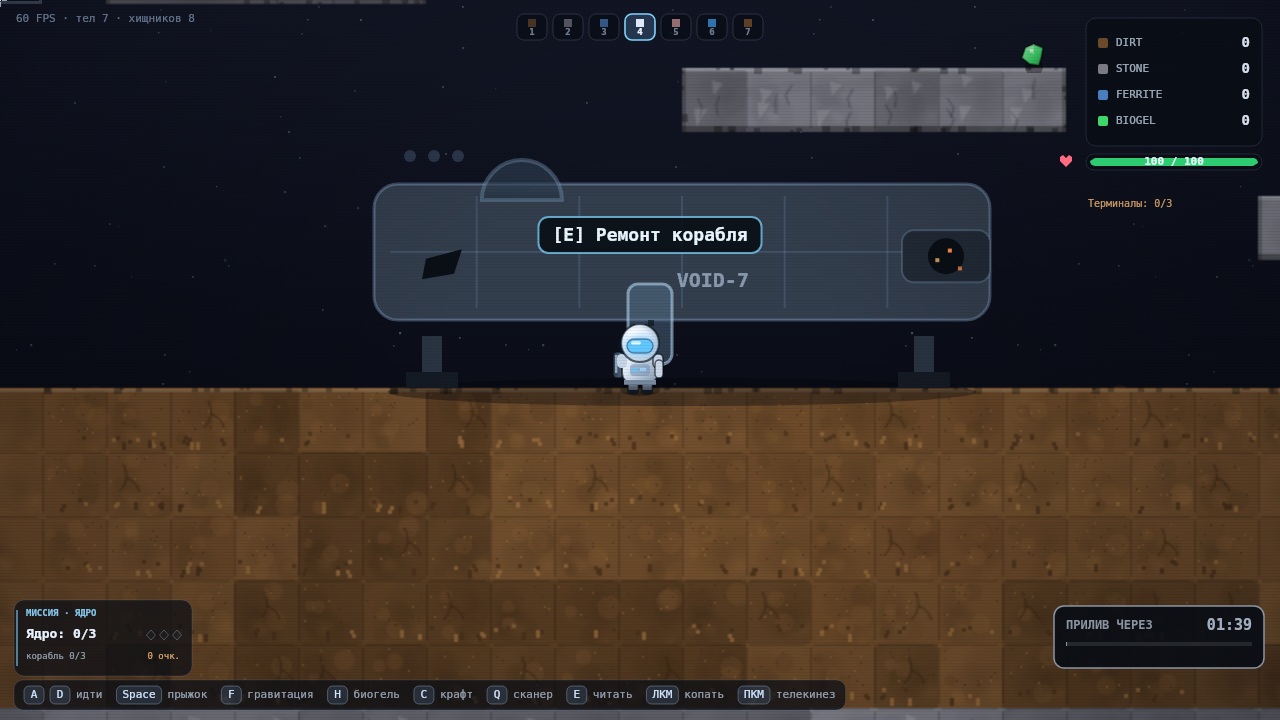
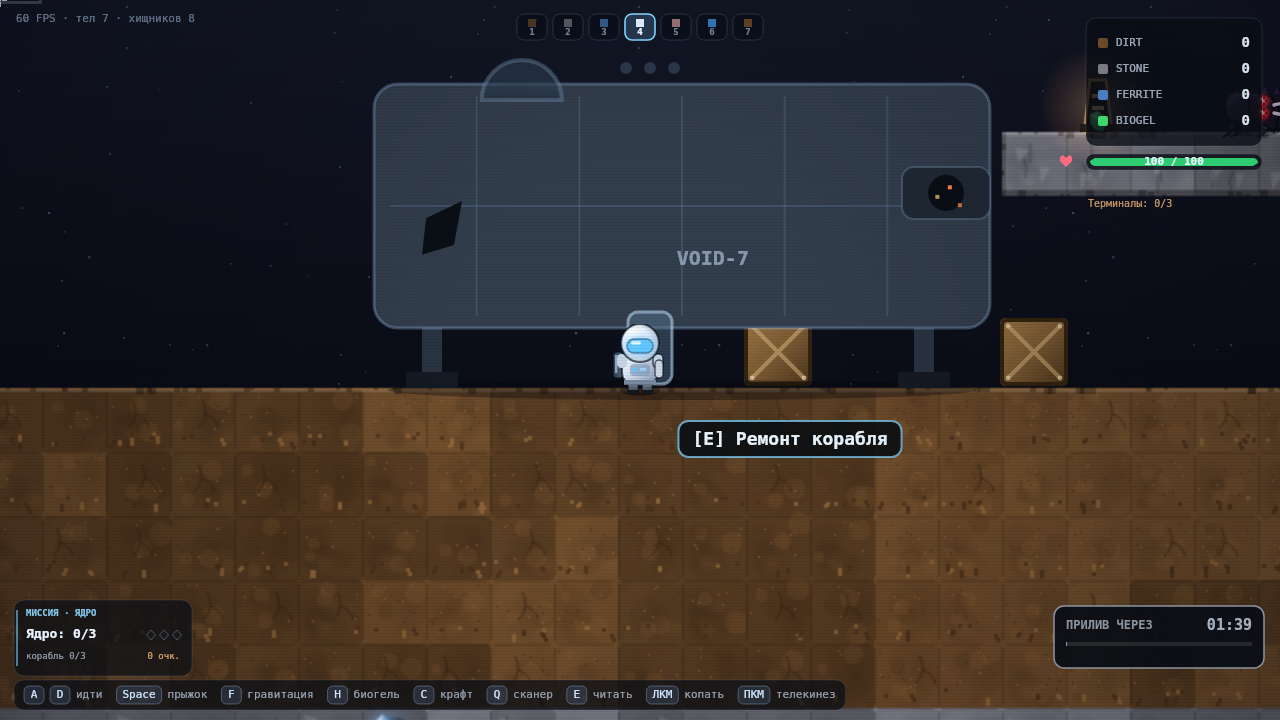
M8.3: слияние мира и сюжета
- SHIP: tx0 16, tx1 25, doorTile 20 — корабль стоит на спавне игрока,
  люк в четырёх тайлах правее: меню ремонта открывается сразу по E.
  Корпус поднят на стойках (30 px просвета), корпус не пересекает игрока.
- Резонит — ресурс игры: убран ручной counts[8] = 0, добыча через
  inventory.add(8, n). Narrative.ensureResonite() остался страховкой
  для сборки без RESONITE в CFG.resources и там возвращает false.
- Заглушки game.shipNear / game.drawShip не подставляются, ссылок на
  game.ship в сюжете нет — только this.ship.
- Подсказка корабля: у низа трапа, с прижатием к экрану, чтобы не
  уезжала за край и не накрывалась HUD на телефоне.
- state()/load() по-прежнему хранят и подхватывают стадию ремонта.

Тесты: verify-narrative 76/76 (+14), verify 344/344.
Перф: p50 6.31 / p95 7.32 / p99 10.01 мс. Скриншоты пересняты.
M82.md, README, review.html обновлены под M8.3.

diff --git a/narrative.js b/narrative.js
@@ -27,12 +27,15 @@
   var RESONITE = 8;
 
   // Корабль: 10 тайлов корпуса на поверхности, у самого старта игрока
+  // M8.3: корабль стоит там, где спавнится игрок (CFG.spawn.playerTileX = 16).
+  // Люк на 20-м тайле — в четырёх тайлах правее точки появления: игрок выходит
+  // из корабля, а не оказывается внутри корпуса
   var SHIP = {
-    tx0: 38,            // левый борт
-    tx1: 47,            // правый борт
+    tx0: 16,            // левый борт
+    tx1: 25,            // правый борт
     floorRow: 17,       // рядов ниже — твёрдый пол (surfaceRow)
     h: 4,               // высота корпуса в тайлах
-    doorTile: 42,       // где «люк»: отсюда считается радиус взаимодействия
+    doorTile: 20,       // где «люк»: отсюда считается радиус взаимодействия
     radius: 3.6         // тайлов до люка, чтобы открыть меню ремонта
   };
 
@@ -461,12 +464,9 @@
       this.prevLeft = false;
       this.toast = '';
 
-      // Резонит — новый ключ инвентаря: без нуля Inventory.add(8, n) даёт NaN
-      if (game && game.inventory && game.inventory.counts[RESONITE] === undefined) {
-        game.inventory.counts[RESONITE] = 0;
-        game.inventory.pulse[RESONITE] = 0;
-      }
-
+      // M8.3: резонит объявлен в CFG.resources игры, поэтому Inventory сам
+      // заводит для него нулевой счётчик, рисует его в HUD и кладёт в сейв.
+      // Ручной `counts[RESONITE] = 0` больше не нужен
       this.load();
       this.settle(game);
     }
@@ -533,9 +533,10 @@
       var g = this.game;
       if (!n || n.taken) return false;
       n.taken = true;
+      Narrative.ensureResonite(g);
       g.inventory.add(RESONITE, n.amount);
       // Своя вспышка: Particles.pickup красит искры по RES[type], а резонита
-      // в таблице ресурсов игры нет — id 8 живёт только в сюжете
+      // может не быть в таблице ресурсов игры — id 8 приходит из сюжета
       for (var i = 0; i < 10; i++) {
         var a = (i / 10) * Math.PI * 2;
         g.particles.add(n.x, n.y, Math.cos(a) * 90, Math.sin(a) * 90, 2.4,
@@ -600,6 +601,7 @@
       // Резонит живёт в инвентаре игры, но переживает F5 только здесь:
       // штатный сейв сохраняет все ключи, а восстанавливает лишь ресурсы CFG
       if (typeof d.resonite === 'number' && this.game && this.game.inventory) {
+        Narrative.ensureResonite(this.game);
         this.game.inventory.counts[RESONITE] = d.resonite;
       }
       return true;
@@ -628,7 +630,11 @@
       this.reading = null;
       this.ending = false;
       this.near = null;
-      if (game && game.inventory) game.inventory.counts[RESONITE] = 0;
+      if (game && game.inventory) {
+        // Обнуляем ровно те ключи, что уже лежат в инвентаре: и штатные ресурсы
+        // игры, и резонит, если игра его знает
+        for (var id in game.inventory.counts) game.inventory.counts[id] = 0;
+      }
       var ls = Narrative.storage();
       try { if (ls) ls.removeItem(Narrative.KEY); } catch (e) { /* пусто */ }
     }
@@ -828,28 +834,34 @@
       var s = this.ship;
       var t = game.time || 0;
       var x0 = s.tx0 * 32, x1 = (s.tx1 + 1) * 32;
-      var bottom = s.bottomY, top = s.topY;
+      var ground = s.bottomY;            // пол: здесь стоят стойки
       var stage = s.repairStage;
+      // M8.3: корабль переехал на спавн, и под брюхом теперь ходят игрок и ящики.
+      // Поэтому корпус поднят на стойках: под ним просвет в 30 px — видно и ноги
+      // игрока, и то, что он стоит ПОД кораблём, а не за ним
+      var legH = 30;
+      var bottom = ground - legH;         // низ корпуса
+      var top = bottom - s.h * 32;
 
-      // --- тень под кораблём: он не «стоит на картинке», а лежит на грунте
+      // --- тень на грунте: корабль стоит, а не висит в воздухе
       ctx.globalAlpha = 0.35;
       ctx.fillStyle = '#04070c';
       ctx.beginPath();
-      ctx.ellipse ? ctx.ellipse((x0 + x1) / 2, bottom + 2, (x1 - x0) * 0.46, 7, 0, 0, Math.PI * 2)
-                  : ctx.arc((x0 + x1) / 2, bottom + 2, (x1 - x0) * 0.4, 0, Math.PI * 2);
+      ctx.ellipse ? ctx.ellipse((x0 + x1) / 2, ground + 1, (x1 - x0) * 0.46, 5, 0, 0, Math.PI * 2)
+                  : ctx.arc((x0 + x1) / 2, ground + 1, (x1 - x0) * 0.4, 0, Math.PI * 2);
       ctx.fill();
       ctx.globalAlpha = 1;
 
-      // --- опоры: две стойки, левая и правая
+      // --- опоры: две стойки от корпуса до грунта, с пятками
       ctx.fillStyle = '#2a3442';
-      ctx.fillRect(x0 + 30, bottom - 26, 10, 26);
-      ctx.fillRect(x1 - 44, bottom - 26, 10, 26);
+      ctx.fillRect(x0 + 30, bottom - 2, 10, legH + 2);
+      ctx.fillRect(x1 - 44, bottom - 2, 10, legH + 2);
       ctx.fillStyle = '#151b24';
-      ctx.fillRect(x0 + 22, bottom - 8, 26, 8);
-      ctx.fillRect(x1 - 52, bottom - 8, 26, 8);
+      ctx.fillRect(x0 + 22, ground - 8, 26, 8);
+      ctx.fillRect(x1 - 52, ground - 8, 26, 8);
 
       // --- корпус: скруглённый силуэт с наклонным носом
-      var bx = x0 + 6, bw = (x1 - x0) - 12, by = top + 26, bh = (bottom - 34) - (top + 26);
+      var bx = x0 + 6, bw = (x1 - x0) - 12, by = top + 6, bh = bottom - top - 6;
       ctx.fillStyle = stage >= 2 ? '#3d4a5c' : '#333e4d';
       rr(ctx, bx, by, bw, bh, 12);
       ctx.fill();
@@ -959,26 +971,29 @@
       }
 
       // --- люк: подсвечен, когда есть чем заняться
-      var doorX = this.ship.doorX - 11, doorY = bottom - 52;
+      // люк: трап от грунта до брюха корабля, чтобы было видно, куда идти
+      var doorX = this.ship.doorX - 11, doorY = bottom - 8;
       var doorGlow = this.near && this.near.kind === 'ship' ? 0.55 + 0.45 * Math.sin(t * 6) : 0.3;
       ctx.globalAlpha = doorGlow;
       ctx.fillStyle = stage >= 1 ? '#7fd4ff' : '#5b7a95';
-      rr(ctx, doorX, doorY, 22, 40, 5);
+      rr(ctx, doorX, doorY, 22, legH + 6, 5);
       ctx.fill();
       ctx.globalAlpha = 1;
       ctx.strokeStyle = 'rgba(190,225,255,0.55)';
       ctx.lineWidth = 1.5;
-      rr(ctx, doorX, doorY, 22, 40, 5);
+      rr(ctx, doorX, doorY, 22, legH + 6, 5);
       ctx.stroke();
       ctx.fillStyle = 'rgba(10,18,28,0.65)';
-      ctx.fillRect(doorX + 10, doorY + 18, 3, 3);
+      ctx.fillRect(doorX + 10, doorY + 12, 3, 3);
 
-      // --- индикатор стадий над кораблём: три точки
+      // --- индикатор стадий над кораблём: три точки над люком.
+      // Корабль стоит у спавна, рядом уступы — вести счёт от левого борта
+      // нельзя: точки терялись на фоне породы
       for (var s2 = 0; s2 < 3; s2++) {
         var on = stage > s2;
         ctx.fillStyle = on ? '#7fd4ff' : 'rgba(120,150,190,0.28)';
         ctx.beginPath();
-        ctx.arc(x0 + 24 + s2 * 12, top + 12, 3, 0, Math.PI * 2);
+        ctx.arc(this.ship.doorX - 12 + s2 * 12, top - 2, 3, 0, Math.PI * 2);
         ctx.fill();
       }
     }
@@ -1132,8 +1147,11 @@
       // а не горячую клавишу — на экране за это отвечает кнопка «читать»
       var e = game.isTouch ? '' : '[E] ';
       if (n.kind === 'ship') {
-        cx = this.ship.doorX;
-        cy = this.ship.bottomY - 78;
+        // Подсказка стоит на грунте у трапа: над корпусом на телефоне её
+        // накрывает HUD, а в середине корабля — спрайт самого игрока
+        // (он рисуется позже и перекрывает надпись)
+        cx = this.ship.doorX + 70;
+        cy = this.ship.bottomY + 24;
         label = this.ship.finished
           ? (this.ship.canActivateCore(game) ? e + 'Активировать ядро' : e + 'Корабль')
           : e + 'Ремонт корабля';
@@ -1158,6 +1176,25 @@
       var bob = Math.sin(t * 3) * 1.5;
       ctx.font = 'bold 9px ' + (Narrative.font || 'monospace');
       var w = ctx.measureText(label).width + 14;
+
+      // Плашка не должна вылезать за экран: переводим мир в экранные пиксели
+      // и обратно. Корабль стоит у спавна, у самого левого края карты —
+      // без этого подсказка обрезалась о край
+      if (game.camera && game.vw) {
+        var z = (typeof CFG !== 'undefined' && CFG.camera) ? CFG.camera.zoom : 2;
+        var camX = game.camera.x + (game.camera.ox || 0);
+        var camY = game.camera.y + (game.camera.oy || 0);
+        var sx = (cx - camX) * z, sy = (cy - camY) * z;
+        var margin = 8;
+        var minX = w / 2 + margin, maxX = game.vw - w / 2 - margin;
+        if (sx < minX) sx = minX;
+        if (sx > maxX) sx = Math.max(minX, maxX);
+        var minY = 20, maxY = game.vh - 20;
+        if (sy < minY) sy = minY;
+        if (sy > maxY) sy = maxY;
+        cx = camX + sx / z;
+        cy = camY + sy / z;
+      }
       ctx.fillStyle = 'rgba(6,12,18,0.85)';
       rr(ctx, cx - w / 2, cy - 9 + bob, w, 18, 5);
       ctx.fill();
@@ -1555,6 +1592,43 @@
   // localStorage бывает и на window, и на глобальном объекте (так делает
   // headless-песочница в tools/verify-narrative.mjs). Берём то, что найдётся,
   // и не падаем, если хранилища нет вовсе — приватный режим
+  // Счётчик резонита в инвентаре. Когда игра объявляет RESONITE в CFG.resources
+  // (M8.3, правки Агента 1), Inventory заводит ключ сам, и эта функция ничего
+  // не делает. Она нужна только сборкам, где резонита в CFG.resources ещё нет:
+  // без нуля Inventory.add(8, n) даёт NaN. Одна функция — одно место, чтобы
+  // потом удалить её целиком
+  Narrative.ensureResonite = function (game) {
+    var inv = game && game.inventory;
+    if (!inv || !inv.counts) return false;
+    if (Narrative.isResource(game, RESONITE)) return false;
+    if (typeof inv.counts[RESONITE] === 'number') return false;
+    inv.counts[RESONITE] = 0;
+    if (inv.pulse) inv.pulse[RESONITE] = 0;
+    return true;
+  };
+
+  // Есть ли такой ресурс в таблице игры. Резонит появился в CFG.resources
+  // в M8.3; если его там нет (старая сборка), сюжет работает как раньше
+  Narrative.isResource = function (game, id) {
+    var list = null;
+    try {
+      // CFG объявлен как const в скрипте игры: в браузере он виден следующему
+      // скрипту той же страницы, в vm-песочнице — нет. Поэтому сначала смотрим
+      // во всём мире, потом в этой области видимости
+      if (global && global.CFG && global.CFG.resources) list = global.CFG.resources;
+    } catch (e) { list = null; }
+    try { if (!list && typeof CFG !== 'undefined' && CFG.resources) list = CFG.resources; } catch (e) { /* нет CFG */ }
+    if (!list) {
+      var res = game && game.inventory && game.inventory.resources;
+      list = res || null;
+    }
+    if (!list) return false;
+    for (var i = 0; i < list.length; i++) {
+      if (list[i] && list[i].id === id) return true;
+    }
+    return false;
+  };
+
   Narrative.storage = function () {
     try {
       if (global && global.localStorage) return global.localStorage;

diff --git a/M82.md b/M82.md
@@ -1,4 +1,4 @@
-# Milestone 8.2 — «Сюжет и Ремонт»
+# Milestone 8.2 — «Сюжет и Ремонт» · M8.3 «Слияние Мира и Сюжета»
 
 Новый файл **`narrative.js`**. Игра `gravity-void.html` не изменилась ни на строку —
 сюжет цепляется к ней снаружи, через публичные поля экземпляра `game` и пять обёрток
@@ -6,7 +6,9 @@
 
 - Как подключить: одна строка `<script src="narrative.js"></script>` после скрипта игры —
   см. §1.
-- Тесты: `node tools/verify-narrative.mjs` — **62/62**.
+- M8.3: корабль переехал на спавн игрока (`tx0 16`, `tx1 25`, люк `20`), резонит стал
+  штатным ресурсом, ссылок на `game.ship` больше нет.
+- Тесты: `node tools/verify-narrative.mjs` — **76/76**.
 - Старая игра цела: `node tools/verify.mjs` — **344/344** (как в M7).
 
 ---
@@ -56,6 +58,10 @@
 ### 2.1 `class Ship` — корабль
 
 Свойства: `repairStage` (0, 1, 2, 3), `coreActive`, координаты корпуса.
+Стоит на поверхности прямо на спавне игрока: корпус тайлы 16–25, люк — 20-й
+(четыре тайла правее точки появления, поэтому игрок выходит из-под корабля,
+а не оказывается внутри). Корпус поднят на стойках: под брюхом 30 px просвета,
+игрок и ящики проходят под кораблём.
 
 | Стадия | Название | Цена | Награда |
 |---|---|---|---|
@@ -111,9 +117,20 @@
 Сбор идёт через `Narrative.takeFragment()`: +250 очков, вспышка, сейв.
 Когда собраны все три — `canActivateCore()` у корабля открывается финальная строка.
 
-### 2.5 RESONITE — новый ресурс
+### 2.5 RESONITE — ресурс игры (M8.3)
 
-В игре заняты id 0–5, поэтому резонит — **id 8**, фиолетовый кристалл.
+Изначально резонит жил только в сюжете: id 0–5 в игре были заняты тайлами и биогелем,
+поэтому он получил **id 8**, а сюжет сам заводил ему счётчик в инвентаре и рисовал
+подсказки. В M8.3 игра объявила `RESONITE` в `CFG.resources`, и всё это стало её работой.
+
+Что изменилось в `narrative.js`:
+
+- ручная инициализация `game.inventory.counts[RESONITE] = 0` из конструктора убрана;
+- добыча идёт через `game.inventory.add(8, n.amount)` — как у любого другого ресурса;
+- осталась одна маленькая страховка `Narrative.ensureResonite(game)`: она заводит
+  нулевой счётчик, **только если** ресурса нет в `CFG.resources` (старая сборка игры).
+  В сборке M8.3 функция возвращает `false` и ничего не делает — это проверено тестом.
+  Когда старые сборки не нужны, удаляется целиком: одно место, три строки.
 Лежит тремя жилами по 2 единицы (всего 6 при нужде в 5 — всегда есть запас):
 
 | # | Координаты | Слой |
@@ -122,9 +139,9 @@
 | 2 | 95, 82 | Глубокие пещеры |
 | 3 | 147, 65 | Глубокие пещеры |
 
-Добывается по `E`, как и всё остальное. В HUD игры резонит не попадает (для этого
-пришлось бы править `gravity-void.html`), вместо этого он виден в меню ремонта
-как цена стадии и в подсказке «не хватает 2 × RESONITE».
+Добывается по `E`, как и всё остальное. После M8.3 резонит виден в HUD игры наравне
+с остальными ресурсами, сохраняется её сейвом и показывается в меню ремонта как цена
+стадии («не хватает 2 × RESONITE»).
 
 ---
 
@@ -139,8 +156,8 @@
    «запас древних: +5 FERRITE, +1 BIOGEL» — для архива это было бы ложью.
    Панель архива рисуется тем же стилем, но с честной наградой «+100 очков».
 3. **Резонит не идёт через `Particles.pickup`.** Тот красит искры по `RES[type]`,
-   а id 8 в таблице ресурсов игры нет — был бы `undefined.light`. У резонита своя
-   вспышка.
+   а таблица `RES` собирается из ресурсов игры; если резонита там нет, был бы
+   `undefined.light`. У резонита своя вспышка — она работает в обеих сборках.
 4. **Точки «приземляются» на пол.** После загрузки чужого сейва карта может быть
    другой, поэтому `settle()` ищет рядом свободное место с полом под ним.
 5. **Сейв отдельный** (`gravity-void-narrative-v1`), чтобы не лезть в формат
@@ -166,6 +183,9 @@
 - пять архивов с текстами из задания, панель открывается и закрывается;
 - `E` у терминала игры по-прежнему работает (конфликта нет);
 - сохранение и подхват сейва новой игрой, сброс по `Backspace`;
+- M8.3: нет ссылок на `game.ship` и заглушек `shipNear`/`drawShip`, меню открывается
+  по `E` у люка на 20-м тайле, корпус не пересекает игрока на спавне;
+  резонит — штатный ресурс (шим не срабатывает), добыча даёт число, а не `NaN`;
 - отрисовка не падает, панель ремонта влезает в экран (на 430 px — масштаб 0.78).
 
 Скриншоты: `node tools/narrative-shots.mjs` (11 ПК-кадров `32…42`),

diff --git a/README.md b/README.md
@@ -1,4 +1,4 @@
-# GRAVITY: VOID — M8.2 «Сюжет и Ремонт»
+# GRAVITY: VOID — M8.3 «Слияние Мира и Сюжета»
 
 Две точки входа, обе открываются двойным кликом:
 
@@ -9,7 +9,7 @@
 | **`gravity-void.html`** | Сама игра, один файл. Без npm, CDN и внешних ассетов. |
 | **`narrative.js`** | M8.2: сюжетный слой — корабль, журнал квестов, пять архивов, три фрагмента ядра, резонит. Подключается одной строкой, игру не меняет. |
 | **`review.html`** | Ревью: вердикт, дефекты, скоуп, must-fix, вопросы, скриншоты. Отдельным файлом, чтобы не мешать игре. |
-| **`M82.md`** | Milestone 8.2 «Сюжет и Ремонт»: `narrative.js`, инструкция подключения, стадии корабля, квесты, тексты терминалов. |
+| **`M82.md`** | Milestone 8.2 «Сюжет и Ремонт» и M8.3 «Слияние Мира и Сюжета»: `narrative.js`, инструкция подключения, стадии корабля, квесты, тексты терминалов. |
 | **`M7.md`** | Milestone 7 «Мобильное управление и Фиксы»: фикс телекинеза, колесо мыши, тач-джойстик и кнопки. |
 | **`M6.md`** | Milestone 6 «Визуальный апгрейд и Свет»: спрайты, процедурная порода, свет и пост-обработка. |
 | **`M5.md`** | Milestone 5 «Эхо Древних»: сканер, древние терминалы, Глубокие пещеры, самопроверка. |
@@ -52,6 +52,22 @@
 ---
 
 ## CHANGELOG
+
+### M8.3 «Слияние Мира и Сюжета»
+#### Изменено
+- **Корабль переехал на спавн**: `SHIP.tx0 16`, `tx1 25`, люк — 20-й тайл. Корпус накрывает
+  точку появления (игрок выходит из-под корабля, а не появляется внутри), люк в четырёх
+  тайлах правее — меню ремонта открывается сразу, по `E`, без похода по карте.
+  Корпус поднят на стойках: под брюхом 30 px просвета, проходят игрок и ящики.
+- **Резонит стал ресурсом игры**: игра сама заводит счётчик, рисует его в HUD и сохраняет.
+  Ручная инициализация `counts[8] = 0` из сюжета убрана, добыча идёт через
+  `inventory.add(8, n)`. Осталась страховка `Narrative.ensureResonite()` на случай
+  старой сборки игры — в M8.3 она возвращает `false` и ничего не делает.
+- **Никаких заглушек поверх игры**: `game.shipNear` и `game.drawShip` не подставляются,
+  ссылок на `game.ship` в коде нет — сюжет работает только со своим `this.ship`.
+#### Цифры
+- `node tools/verify-narrative.mjs` — **76/76** (+14 проверок M8.3),
+  `node tools/verify.mjs` — **344/344** (игра цела).
 
 ### M8.2 «Сюжет и Ремонт» — `narrative.js`
 #### Добавлено
